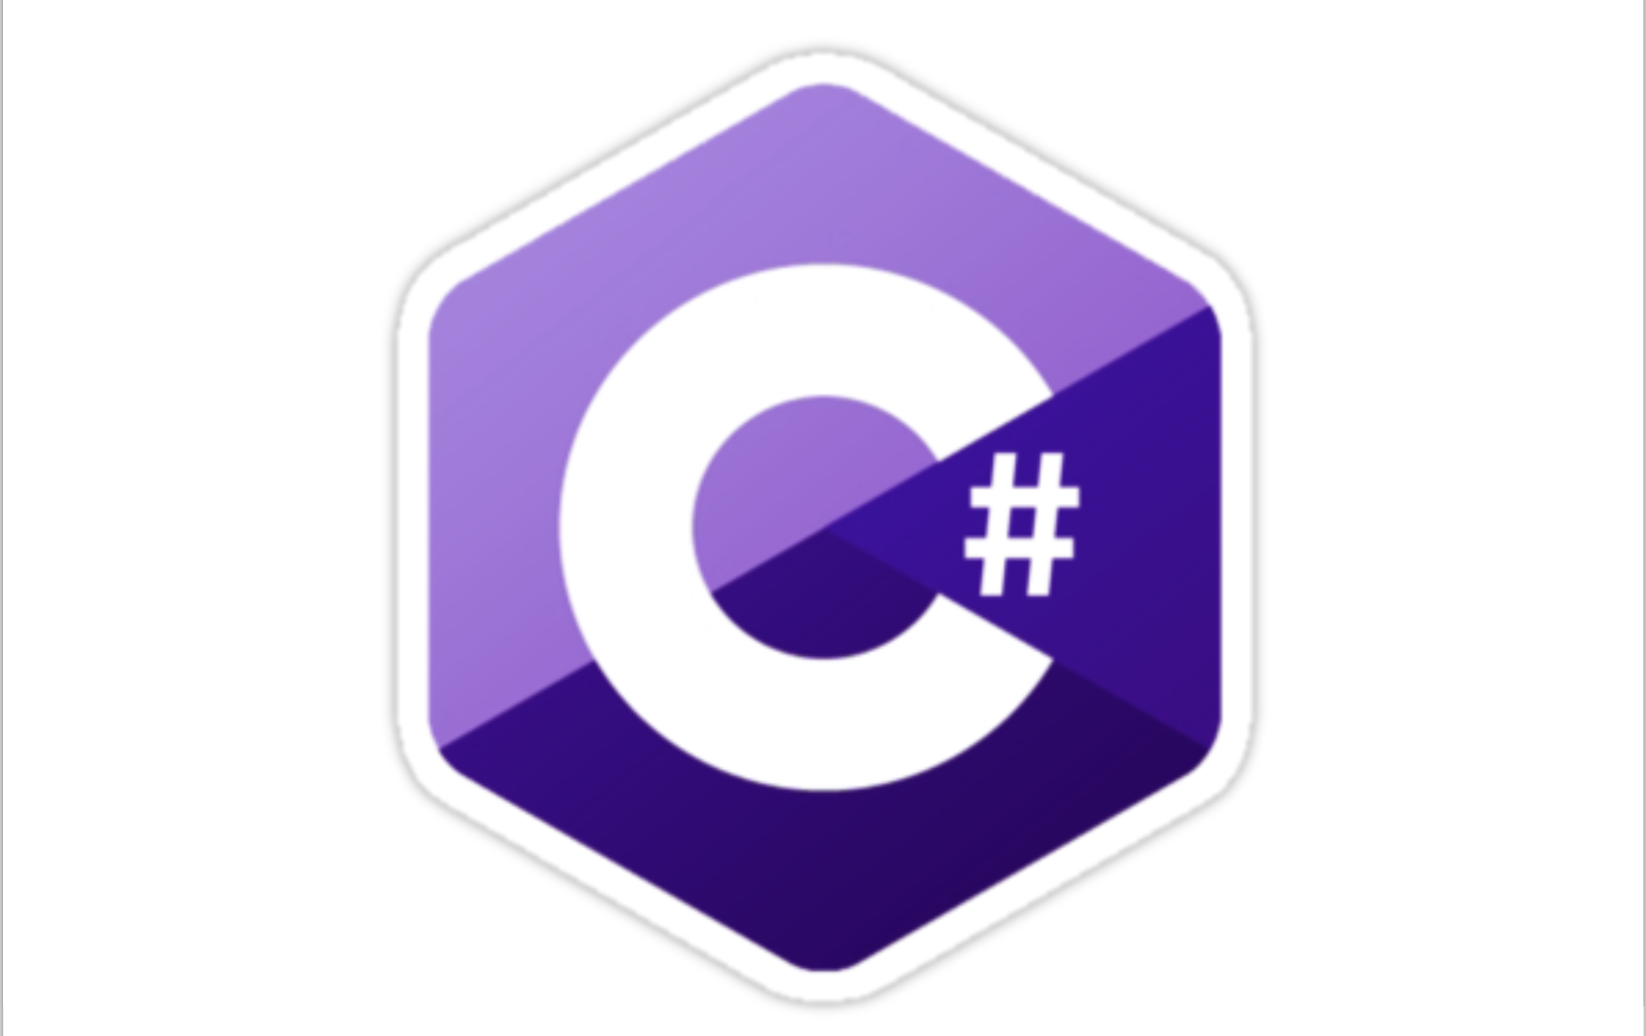
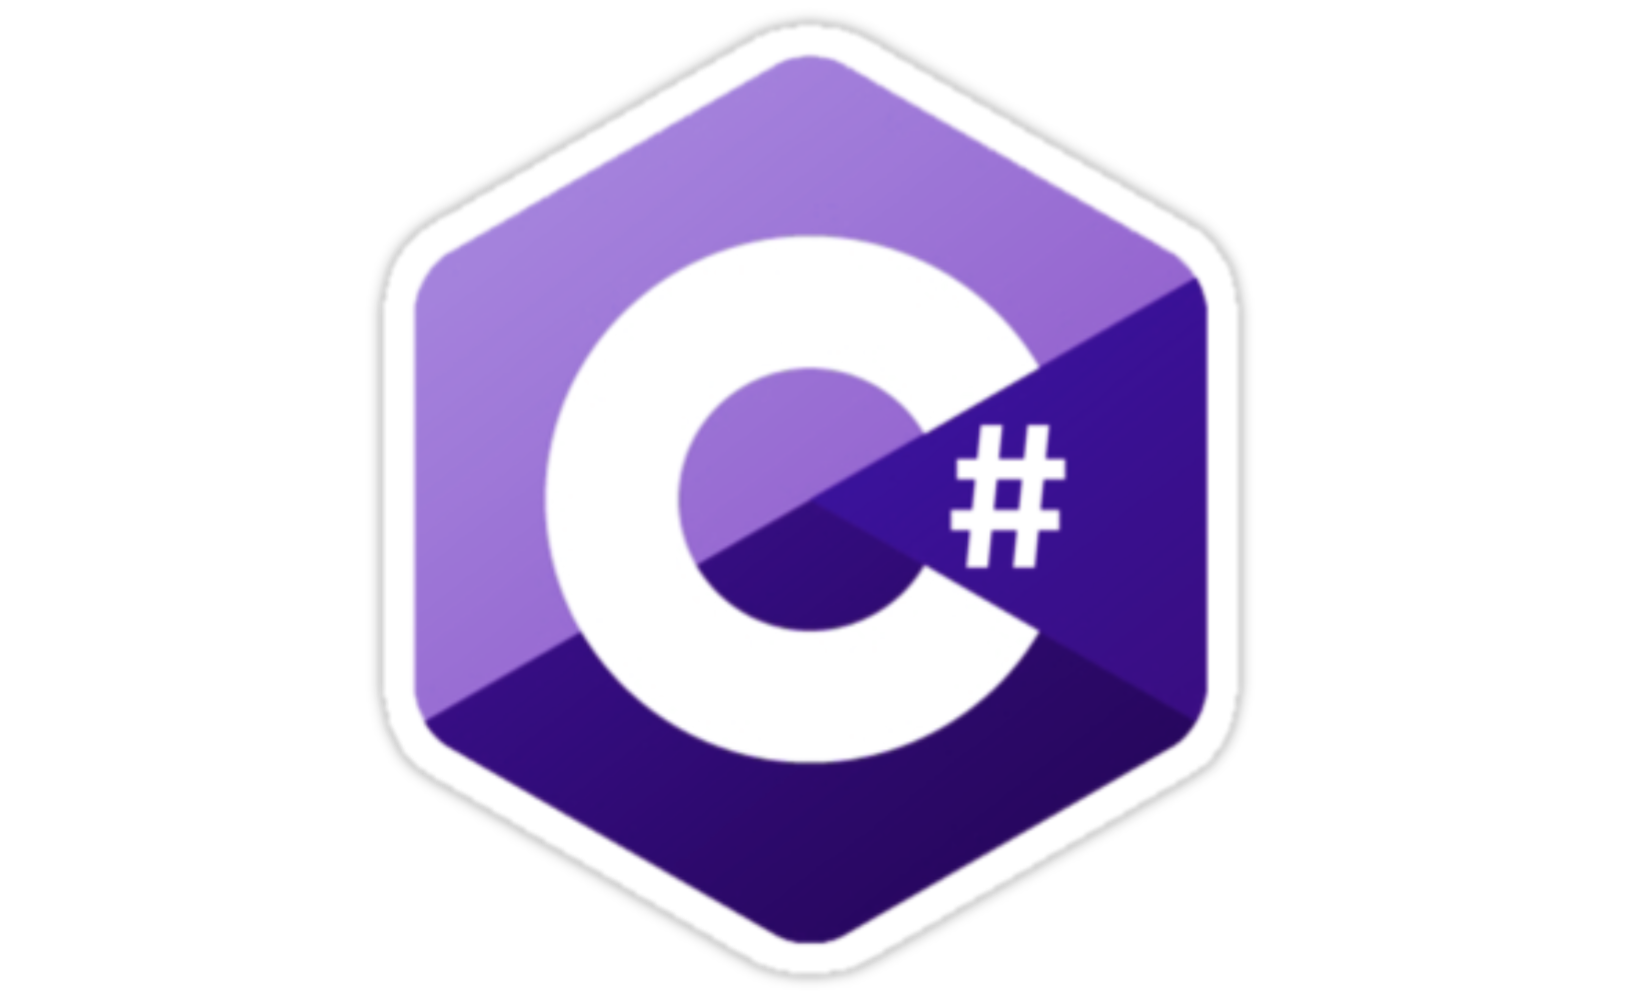
monkeytree changed to c# programming coming soon dif pic

diff --git a/index.html b/index.html
@@ -243,12 +243,12 @@
                 <div class="col-md-4">
                     <article class="blog-post">
                         <figure>
-                            <a target="_blank" href="https://en.wikipedia.org/wiki/C_Sharp_%28programming_language%29" href="img/csharp3.png" class="single_image">
+                            <a target="_blank" href="https://en.wikipedia.org/wiki/C_Sharp_%28programming_language%29" href="img/csharp2.png" class="single_image">
                                 <div class="blog-img-wrap">
                                     <div class="overlay">
                                         <i class="fa fa-search"></i>
                                     </div>
-                                    <img target="_blank" href="https://en.wikipedia.org/wiki/C_Sharp_%28programming_language%29" src="img/csharp3.png"  class="single_image" alt="C#"/>
+                                    <img target="_blank" href="https://en.wikipedia.org/wiki/C_Sharp_%28programming_language%29" src="img/csharp2.png" height="256" width="256" class="single_image" alt="C#"/>
                                 </div>
                             </a>
                             <figcaption>
